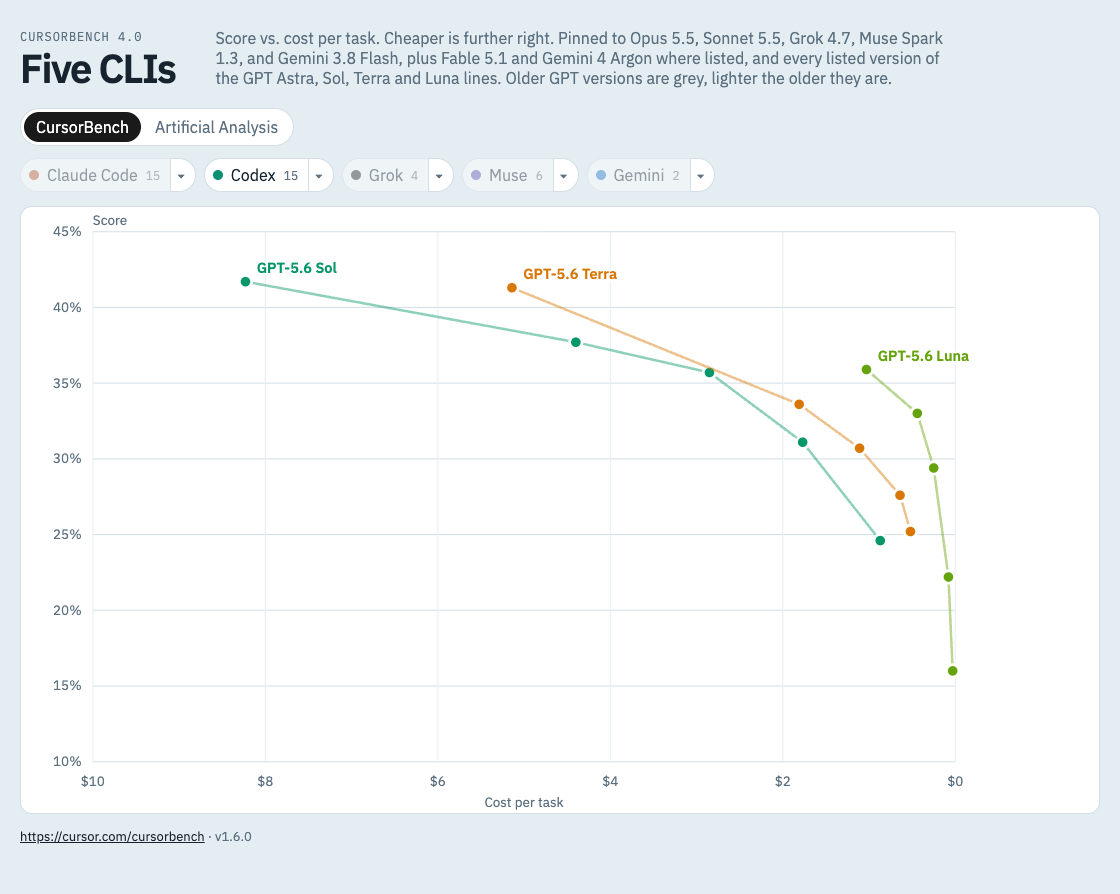
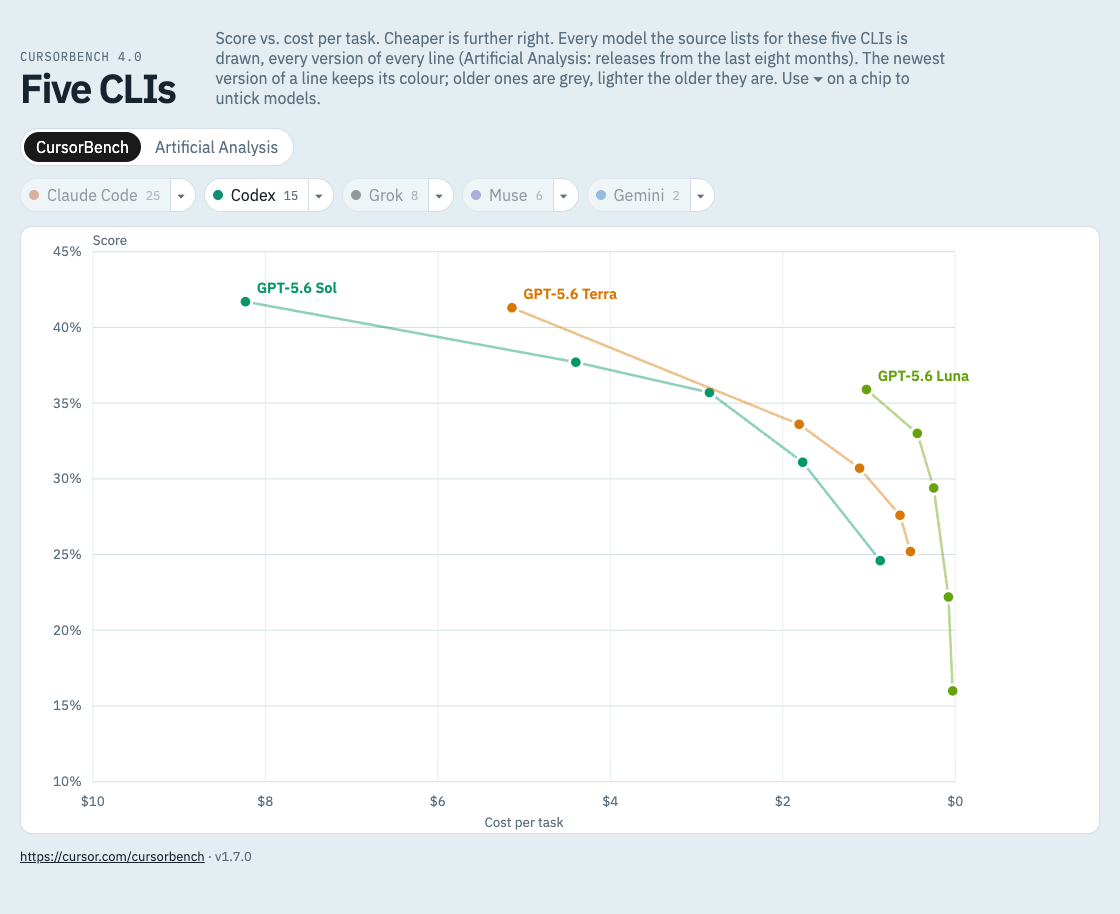
feat: draw every model of the five CLIs, every version of every line
- shownModels keeps every model of the five providers; the pinned list,
  extras and GPT-only rule are gone. AA draws scored releases from the
  last 240 days, fetched four pages at a time; a release that never
  loads is left out instead of failing the chart.
- modelLine() gives every model a line and a decimal version (Grok 4.20
  sits below 4.7). Older-is-grey and the newest-first menu order now
  cover every line: Fable, Opus, Sonnet; GPT Astra, Sol, Terra, Luna;
  Grok, Grok Build; Muse Spark, Glimmer; Gemini Argon, Pro, Flash,
  Flash-Lite.
- An AA reasoning variant without an effort level (Gemini 3.1 Pro
  Preview) is one point; variants AA scored without a cost per task
  (Opus 4.7, Grok 4.20) cannot be placed and stay out.
- README, changelog and all screenshots updated. Bump to 1.7.0.

diff --git a/src/bench.ts b/src/bench.ts
@@ -46,7 +46,7 @@ export const SOURCES: Record<
   },
 }
 
-export const APP_VERSION = "1.6.0"
+export const APP_VERSION = "1.7.0"
 
 export function providerById(id: ProviderId) {
   const found = PROVIDERS.find((item) => item.id === id)
@@ -54,23 +54,33 @@ export function providerById(id: ProviderId) {
   return found
 }
 
-const GPT_MODEL = /^GPT-(\d+)(?:\.(\d+))? (Astra|Sol|Terra|Luna)$/
+// A model's line and version: "GPT-6.1 Sol" -> Sol 6.1, "Opus 5.5" -> Opus 5.5,
+// "Grok 4.20 0309 v2" -> Grok 4.2, "Gemini 3.5 Flash-Lite" -> Gemini Flash-Lite 3.5,
+// "Muse Spark" -> Muse Spark 0. Versions compare as decimals, so Grok 4.20 (March)
+// sits below Grok 4.7 (September); build dates and "v2" tags are not part of the line.
+export function modelLine(model: string) {
+  const gpt = model.match(/^GPT-(\d+(?:\.\d+)?) (\w+)$/)
+  if (gpt) return { line: gpt[2], version: parseFloat(gpt[1]) }
+  const tokens = model.split(/\s+/)
+  const at = tokens.findIndex((token) => /^\d+(?:\.\d+)?$/.test(token))
+  const version = at >= 0 ? parseFloat(tokens[at]) : 0
+  const line = tokens.filter((token, i) => i !== at && !/^\d+$/.test(token) && !/^v\d+$/i.test(token)).join(" ")
+  return { line, version }
+}
 
-// How many versions behind the newest of its GPT line each older GPT model is
-// (GPT-6 Sol is 1 behind GPT-6.1 Sol, GPT-5.6 Sol is 2). Older ones get grey so the
-// newest stands out.
+// How many versions behind the newest of its line each older model is (Opus 5 is 1
+// behind Opus 5.5, GPT-5.6 Sol is 2 behind GPT-6.1 Sol). Older ones get grey so the
+// newest of every line stands out.
 export function previousGenerations(models: readonly string[]) {
-  const versions = new Map<string, number[]>()
-  const version = (match: RegExpMatchArray) => Number(match[1]) * 1000 + Number(match[2] ?? 0)
+  const versions = new Map<string, Set<number>>()
   for (const model of models) {
-    const match = model.match(GPT_MODEL)
-    if (match) versions.set(match[3], [...(versions.get(match[3]) ?? []), version(match)])
+    const { line, version } = modelLine(model)
+    versions.set(line, (versions.get(line) ?? new Set()).add(version))
   }
   const behind = new Map<string, number>()
   for (const model of models) {
-    const match = model.match(GPT_MODEL)
-    if (!match) continue
-    const newer = new Set((versions.get(match[3]) ?? []).filter((value) => value > version(match))).size
+    const { line, version } = modelLine(model)
+    const newer = [...(versions.get(line) ?? [])].filter((value) => value > version).length
     if (newer > 0) behind.set(model, newer)
   }
   return behind
@@ -83,6 +93,10 @@ export function seriesColor(model: string, provider: ProviderId, behind = 0) {
   if (model.startsWith("Sonnet")) return "#c4552a"
   if (model.startsWith("Fable")) return "#9a3412"
   if (model.includes("Argon")) return "#1e3a8a"
+  if (model.includes("Flash-Lite")) return "#60a5fa"
+  if (model.includes(" Pro")) return "#4338ca"
+  if (model.startsWith("Grok Build")) return "#78716c"
+  if (model.startsWith("Muse Glimmer")) return "#a855f7"
   if (model.includes("Sol")) return "#059669"
   if (model.includes("Terra")) return "#d97706"
   if (model.includes("Astra")) return "#0f766e"

diff --git a/src/Legend.tsx b/src/Legend.tsx
@@ -1,5 +1,5 @@
 import { useEffect, useRef, useState } from "react"
-import { PROVIDERS, seriesColor, type ProviderId, type Row } from "./bench"
+import { PROVIDERS, modelLine, seriesColor, type ProviderId, type Row } from "./bench"
 
 type Props = {
   rows: Row[]
@@ -10,24 +10,22 @@ type Props = {
   onSetModels: (models: readonly string[], visible: boolean) => void
 }
 
-// Menu order: by line (Fable, Opus, Sonnet; GPT Astra, Sol, Terra, Luna; Gemini Argon,
-// Flash), and newest version first within a line, so the list does not reshuffle when
-// scores move.
-const LINE_ORDER = ["Fable", "Opus", "Sonnet", "Astra", "Sol", "Terra", "Luna", "Grok", "Muse Spark", "Gemini Argon", "Gemini Flash"]
-
-function lineAndVersion(model: string) {
-  const gpt = model.match(/^GPT-(\d+(?:\.\d+)?) (\w+)$/)
-  const version = gpt ? gpt[1] : (model.match(/\d+(?:\.\d+)?/)?.[0] ?? "0")
-  const line = gpt ? gpt[2] : model.replace(version, "").replace(/\s+/g, " ").trim()
-  const [major, minor = "0"] = version.split(".")
-  return { line, version: Number(major) * 1000 + Number(minor) }
-}
+// Menu order: by line (Fable, Opus, Sonnet; GPT Astra, Sol, Terra, Luna; Grok, Grok Build;
+// Muse Spark, Glimmer; Gemini Argon, Pro, Flash, Flash-Lite), and newest version first within a
+// line, so the list does not reshuffle when scores move.
+const LINE_ORDER = [
+  "Fable", "Opus", "Sonnet",
+  "Astra", "Sol", "Terra", "Luna",
+  "Grok", "Grok Build",
+  "Muse Spark", "Muse Glimmer",
+  "Gemini Argon", "Gemini Pro Preview", "Gemini Flash", "Gemini Flash-Lite",
+]
 
 function compareModels(a: string, b: string) {
-  const x = lineAndVersion(a)
-  const y = lineAndVersion(b)
+  const x = modelLine(a)
+  const y = modelLine(b)
   const rank = (line: string) => (LINE_ORDER.includes(line) ? LINE_ORDER.indexOf(line) : LINE_ORDER.length)
-  return rank(x.line) - rank(y.line) || x.line.localeCompare(y.line) || y.version - x.version
+  return rank(x.line) - rank(y.line) || x.line.localeCompare(y.line) || y.version - x.version || b.localeCompare(a)
 }
 
 // Models of one provider in menu order, with how many points each has.

diff --git a/src/App.tsx b/src/App.tsx
@@ -124,9 +124,9 @@ export default function App() {
           <h1>Five CLIs</h1>
         </div>
         <p className="deck">
-          Score vs. cost per task. Cheaper is further right. Pinned to Opus 5.5, Sonnet 5.5, Grok 4.7, Muse Spark 1.3, and
-          Gemini 3.8 Flash, plus Fable 5.1 and Gemini 4 Argon where listed, and every listed version of the GPT Astra, Sol,
-          Terra and Luna lines. Older GPT versions are grey, lighter the older they are.
+          Score vs. cost per task. Cheaper is further right. Every model the source lists for these five CLIs is drawn,
+          every version of every line (Artificial Analysis: releases from the last eight months). The newest version of a
+          line keeps its colour; older ones are grey, lighter the older they are. Use ▾ on a chip to untick models.
           {source === "aa"
             ? " AA scores a general intelligence index on another test set; do not compare them with CursorBench percentages."
             : null}

diff --git a/README.md b/README.md
@@ -2,17 +2,17 @@
 
 A small local viewer for the [CursorBench](https://cursor.com/cursorbench) leaderboard. It plots **score vs. cost per task** for the models behind five coding CLIs, so you can see at a glance which model and effort level gives the most score per dollar.
 
-| CLI         | Models shown                                   |
-| ----------- | ---------------------------------------------- |
-| Claude Code | Opus 5.5, Sonnet 5.5, Fable 5.1                |
-| Codex       | Every GPT Astra, Sol, Terra, Luna version (below) |
-| Grok        | Grok 4.7                                       |
-| Muse        | Muse Spark 1.3                                 |
-| Gemini      | Gemini 3.8 Flash, Gemini 4 Argon (AA only)     |
+| CLI         | Lines drawn (every listed version of each)                |
+| ----------- | --------------------------------------------------------- |
+| Claude Code | Fable, Opus, Sonnet                                       |
+| Codex       | GPT Astra, Sol, Terra, Luna                               |
+| Grok        | Grok, Grok Build                                          |
+| Muse        | Muse Spark, Muse Glimmer                                  |
+| Gemini      | Gemini Argon, Pro, Flash, Flash-Lite                      |
 
 Every effort level listed on CursorBench (Minimal → Max) appears as its own point, and each model's points are connected into one line.
 
-Besides the pinned models, Fable 5.1 and Gemini 4 Argon are drawn on whichever source lists them. Gemini 4 Argon is on Artificial Analysis only for now.
+Every model the source lists for these five CLIs is drawn, every version of every line. On Artificial Analysis only releases from roughly the last eight months are drawn, and a model AA scored without a cost per task (for example Opus 4.7 or Grok 4.20) cannot be placed on the cost axis and is left out.
 
 ![Demo: score vs. cost per task for five coding CLIs](docs/demo.png)
 
@@ -20,7 +20,7 @@ Hovering a point spotlights that model: the other lines fade, a crosshair marks 
 
 ![Demo: hover spotlights one model and dims the rest](docs/demo-hover.png)
 
-Each legend chip also has a ▾ menu to tick the models of that CLI one by one. Here GPT-5.6 Terra, GPT-6 Luna and GPT-5.6 Luna are unticked, so Codex shows 20 of its 35 points.
+Each legend chip also has a ▾ menu to tick the models of that CLI one by one. Here GPT-5.6 Terra, GPT-6 Luna and GPT-5.6 Luna are unticked, so Codex shows 20 of its 35 points. The menu lists models by line and newest version first, the same order as the table above.
 
 ![Demo: the model menu under a legend chip](docs/demo-menu.png)
 
@@ -28,11 +28,11 @@ Clicking a legend chip shows or hides that CLI. Here only Codex is visible, comp
 
 ![Demo: legend chips filter the chart to one CLI](docs/demo-filter.png)
 
-**GPT rule:** Codex draws every version the source lists for the Astra, Sol, Terra and Luna lines, so on Artificial Analysis GPT-6.1 Sol, GPT-6 Sol and GPT-5.6 Sol all appear. The newest version of a line keeps its colour; the one before it is dark grey and anything older is light grey. A new version appears as soon as the source lists it, with no code change. Untick older versions in the ▾ menu to hide them.
+**Version rule:** every version the source lists for a line is drawn, so on Artificial Analysis GPT-6.1 Sol, GPT-6 Sol and GPT-5.6 Sol all appear, as do Opus 5.5 and Opus 5. The newest version of a line keeps its colour; the one before it is dark grey and anything older is light grey. Versions compare as decimals, so Grok 4.20 counts as older than Grok 4.7. A new version appears as soon as the source lists it, with no code change. Untick older versions in the ▾ menu to hide them.
 
 As of 2026-10-01 CursorBench has no GPT-6 models, so it shows only GPT-5.6. GPT-6 has no Terra line.
 
-**Data source switch:** the toggle above the legend swaps CursorBench for the [Artificial Analysis](https://artificialanalysis.ai/models/releases) Intelligence Index, using the same models and the same GPT rule. AA already lists GPT-6.1 Sol, GPT-6 Sol, GPT-6 Astra, GPT-6 Luna and Gemini 4 Argon. Its score is a general intelligence index on a different test set, so read it on its own and do not compare it with CursorBench percentages. AA scores fewer efforts for some models (Grok 4.7 and Muse Spark 1.3 have two each). The choice is kept in the URL as `?source=aa`.
+**Data source switch:** the toggle above the legend swaps CursorBench for the [Artificial Analysis](https://artificialanalysis.ai/models/releases) Intelligence Index, using the same lines and the same version rule. AA already lists GPT-6.1 Sol, GPT-6 Sol, GPT-6 Astra, GPT-6 Luna and Gemini 4 Argon. Its score is a general intelligence index on a different test set, so read it on its own and do not compare it with CursorBench percentages. AA scores fewer efforts for some models (Grok 4.7 and Muse Spark 1.3 have two each). The choice is kept in the URL as `?source=aa`.
 
 ![Demo: the same chart on the Artificial Analysis Intelligence Index](docs/demo-aa.png)
 
@@ -51,7 +51,7 @@ Open the URL Vite prints (default http://localhost:5173).
 
 - **Source toggle:** switch between CursorBench and Artificial Analysis.
 - **Legend chips:** an on/off switch for a whole CLI. Turning it off and on again keeps the models you ticked in its menu. The number is how many points it has, or shown/total when some models are unticked.
-- **▾ next to a chip:** tick or untick that CLI's models one by one, or all at once. Models are listed by line (Fable, Opus, Sonnet; GPT Astra, Sol, Terra, Luna; Gemini Argon, Flash), newest version first. Esc or a click outside closes it.
+- **▾ next to a chip:** tick or untick that CLI's models one by one, or all at once. Models are listed by line (Fable, Opus, Sonnet; GPT Astra, Sol, Terra, Luna; Grok, Grok Build; Muse Spark, Glimmer; Gemini Argon, Pro, Flash, Flash-Lite), newest version first. Esc or a click outside closes it.
 - **Remembered:** chip switches and menu ticks are saved in this browser (localStorage), so a reload or the next visit keeps them. They apply to both sources.
 - **Hover** a point to highlight its label, score, and cost.
 - **Click** a point to pin it. Click again to unpin.
@@ -69,8 +69,8 @@ CursorBench has no public API or data file, so the dev server scrapes the leader
 
 The Artificial Analysis source (`/api/bench?source=aa`, in [server/aa.mjs](server/aa.mjs)) works differently:
 
-1. It fetches the AA "All releases" page and picks the releases to show with the same model rule. A release is found from its release entry or from its variants, since some releases (such as GPT-5.6 Sol) only appear through their variants.
-2. It fetches each picked release page and reads that release's own per-effort entries. An effort without an index score or a cost per task is left out.
+1. It fetches the AA "All releases" page and picks every scored release of the five CLIs' providers from the last 240 days. A release is found from its release entry or from its variants, since some releases (such as GPT-5.6 Sol) only appear through their variants.
+2. It fetches each picked release page (four at a time) and reads that release's own per-effort entries. An effort without an index score or a cost per task is left out; a reasoning variant with no effort level becomes one point without an effort; non-reasoning variants are left out.
 3. Results are cached in `data/aa-cache.json` for 6 hours. If a release page fails, its last cached rows are kept.
 
 `data/` is git-ignored, so the cache is created on your first run.
@@ -99,10 +99,11 @@ src/bench.ts       Shared types, provider colors, formatting helpers
 
 ## Changing which models are shown
 
-Edit `KEEP`, `EXTRA` and `GPT_LINES` in [server/bench.mjs](server/bench.mjs), then delete `data/bench-cache.json` and `data/aa-cache.json` so the next load rebuilds both caches.
+Which providers count is `providerOf` in [server/bench.mjs](server/bench.mjs); the AA date window is `RECENT_DAYS` in [server/aa.mjs](server/aa.mjs). Edit them, then delete `data/bench-cache.json` and `data/aa-cache.json` so the next load rebuilds both caches.
 
 ## Changelog
 
+- **1.7.0** (2026-10-02): Every model of the five CLIs is drawn, every version of every line (AA: releases from the last 240 days). The older-is-grey rule and the newest-first menu order now cover every line, not only GPT. Versions compare as decimals (Grok 4.20 below 4.7). Gemini 3.1 Pro Preview, a reasoning variant without an effort level, shows as one point.
 - **1.6.0** (2026-10-02): Chip switches and menu ticks are remembered in the browser. A chip is now only an on/off switch: turning a CLI back on keeps the models ticked in its menu instead of ticking them all.
 - **1.5.2** (2026-10-02): Menu line order is Fable, Opus, Sonnet for Claude Code and Argon, Flash for Gemini.
 - **1.5.1** (2026-10-02): The ▾ menu lists models by line and newest version first, instead of by score, so the order stays put when scores change.
